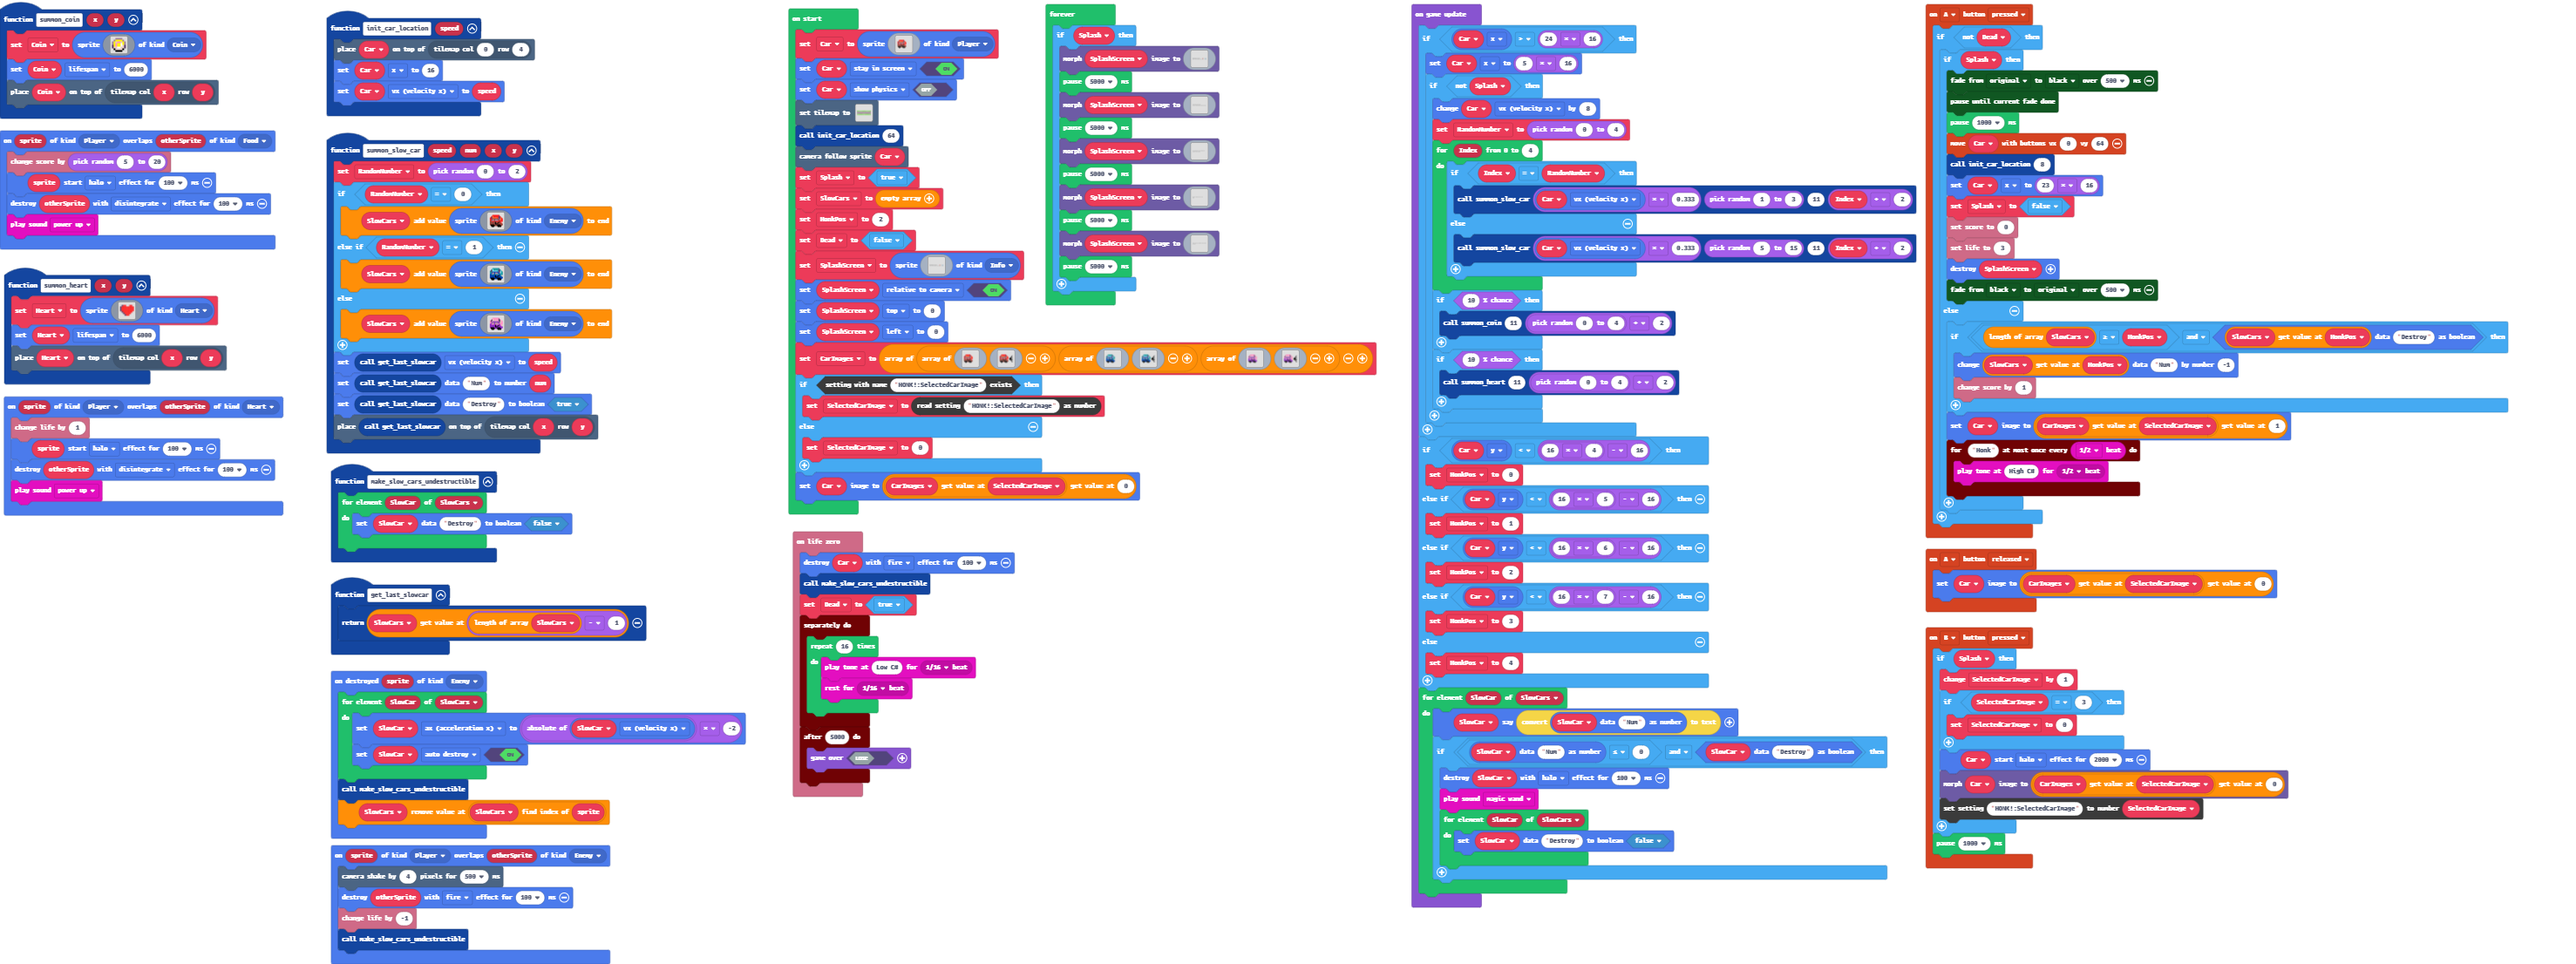
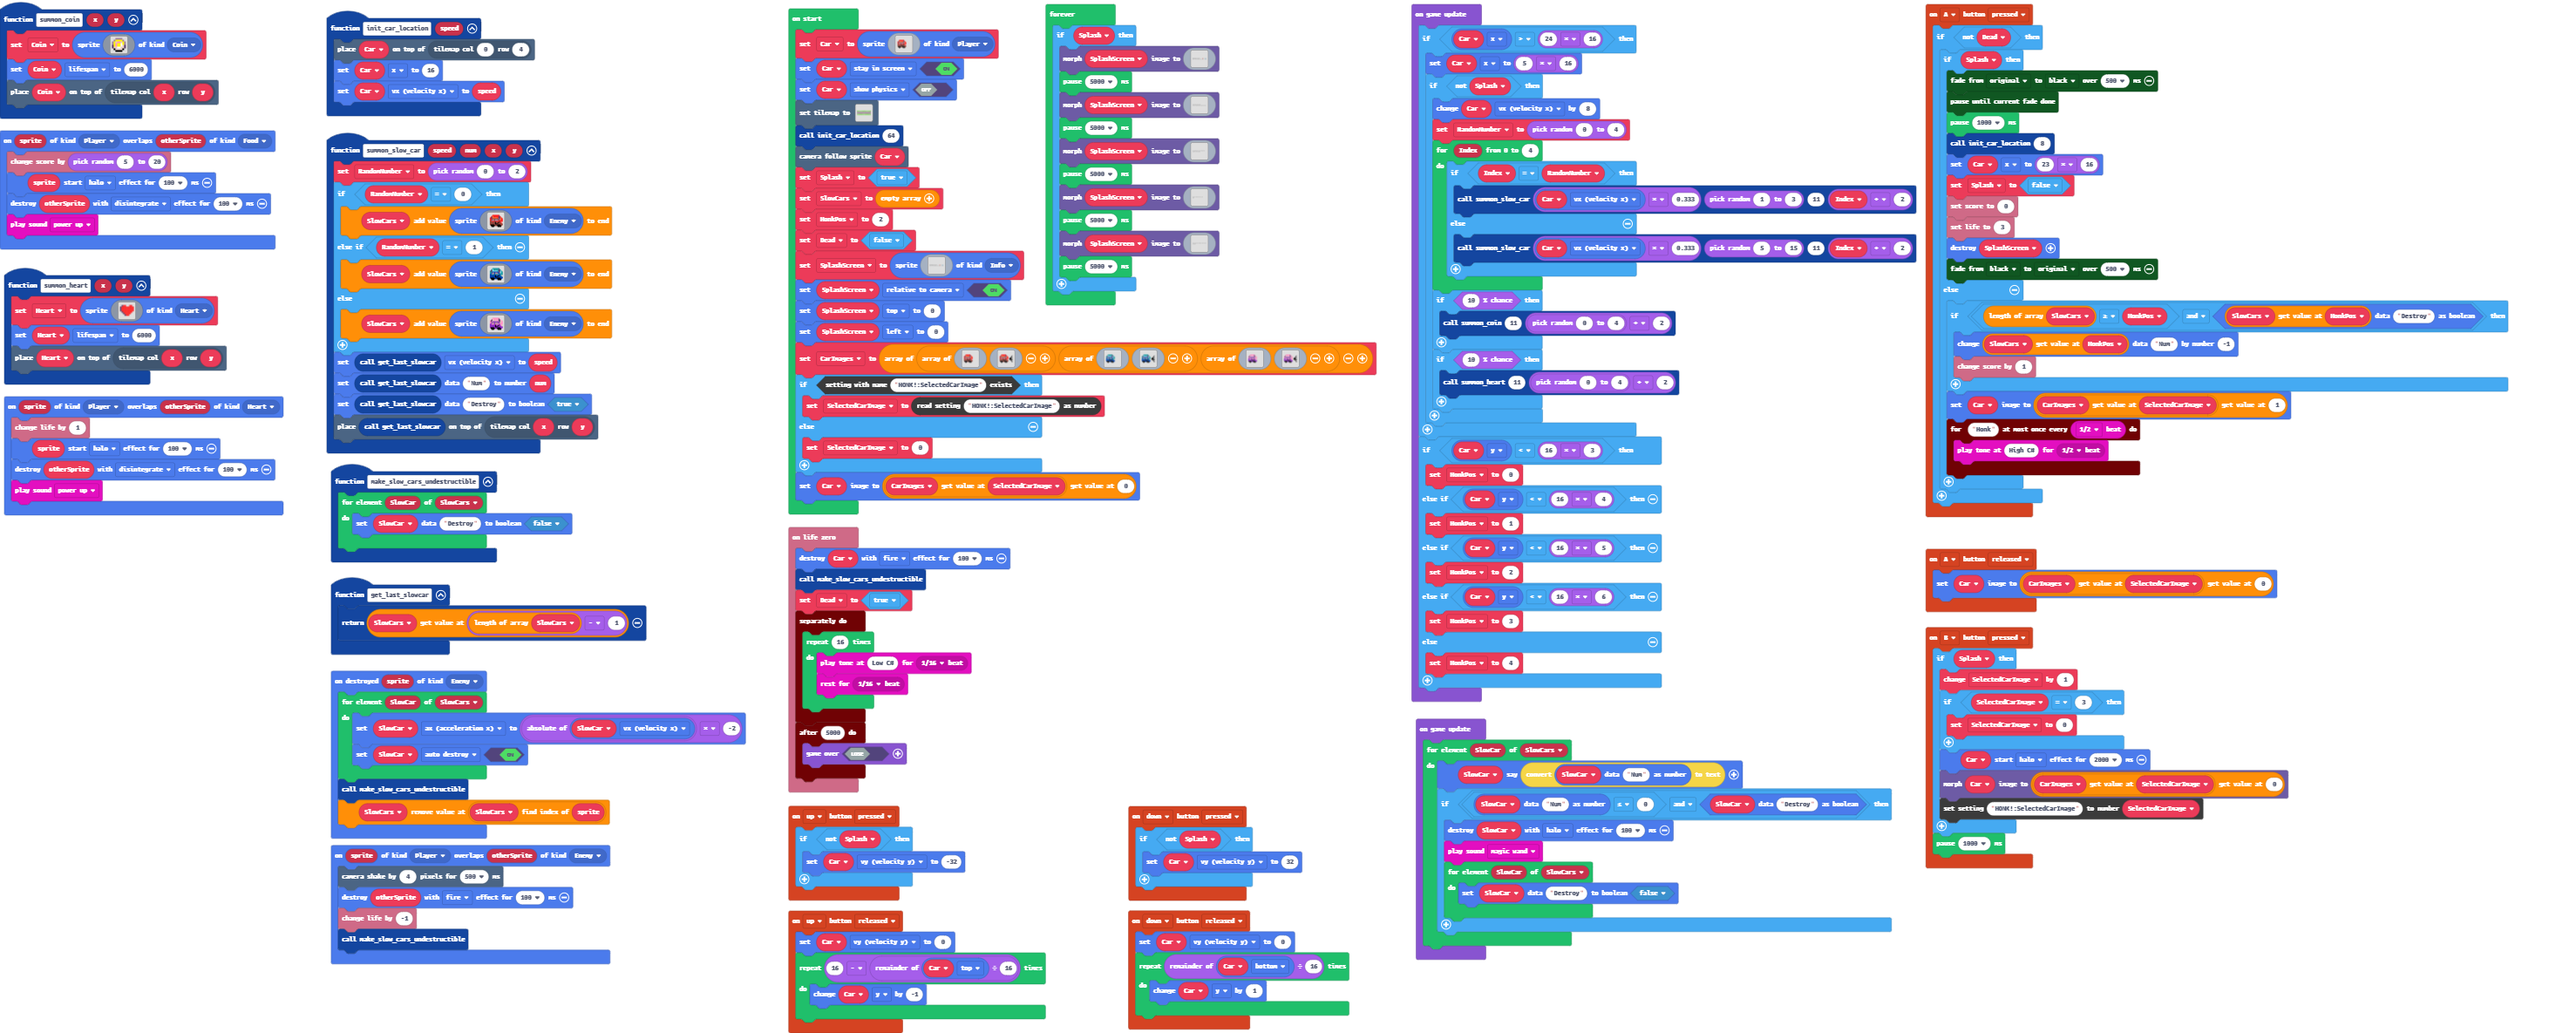
Smooth lane changing (#2)
* Switching lanes is kinda smooth

* Fixed changing lanes up bug

diff --git a/main.ts b/main.ts
@@ -3,6 +3,11 @@ namespace SpriteKind {
     export const Coin = SpriteKind.create()
     export const Heart = SpriteKind.create()
 }
+controller.up.onEvent(ControllerButtonEvent.Pressed, function () {
+    if (!(Splash)) {
+        Car.vy = -32
+    }
+})
 function summon_slow_car (speed: number, num: number, x: number, y: number) {
     RandomNumber = randint(0, 2)
     if (RandomNumber == 0) {
@@ -91,7 +96,6 @@ controller.A.onEvent(ControllerButtonEvent.Pressed, function () {
             color.startFade(color.originalPalette, color.Black, 500)
             color.pauseUntilFadeDone()
             pause(1000)
-            controller.moveSprite(Car, 0, 64)
             init_car_location(8)
             Car.x = 23 * 16
             Splash = false
@@ -109,6 +113,12 @@ controller.A.onEvent(ControllerButtonEvent.Pressed, function () {
                 music.playTone(554, music.beat(BeatFraction.Half))
             })
         }
+    }
+})
+controller.down.onEvent(ControllerButtonEvent.Released, function () {
+    Car.vy = 0
+    for (let index = 0; index < Car.bottom % 16; index++) {
+        Car.y += 1
     }
 })
 sprites.onOverlap(SpriteKind.Player, SpriteKind.Heart, function (sprite, otherSprite) {
@@ -133,9 +143,20 @@ function summon_heart (x: number, y: number) {
 controller.A.onEvent(ControllerButtonEvent.Released, function () {
     Car.setImage(CarImages[SelectedCarImage][0])
 })
+controller.up.onEvent(ControllerButtonEvent.Released, function () {
+    Car.vy = 0
+    for (let index = 0; index < 16 - Car.top % 16; index++) {
+        Car.y += -1
+    }
+})
 function get_last_slowcar () {
     return SlowCars[SlowCars.length - 1]
 }
+controller.down.onEvent(ControllerButtonEvent.Pressed, function () {
+    if (!(Splash)) {
+        Car.vy = 32
+    }
+})
 info.onLifeZero(function () {
     Car.destroy(effects.fire, 100)
     make_slow_cars_undestructible()
@@ -388,17 +409,19 @@ game.onUpdate(function () {
             }
         }
     }
-    if (Car.y < 16 * 4 - 16) {
+    if (Car.y < 16 * 3) {
         HonkPos = 0
-    } else if (Car.y < 16 * 5 - 16) {
+    } else if (Car.y < 16 * 4) {
         HonkPos = 1
-    } else if (Car.y < 16 * 6 - 16) {
+    } else if (Car.y < 16 * 5) {
         HonkPos = 2
-    } else if (Car.y < 16 * 7 - 16) {
+    } else if (Car.y < 16 * 6) {
         HonkPos = 3
     } else {
         HonkPos = 4
     }
+})
+game.onUpdate(function () {
     for (let SlowCar of SlowCars) {
         SlowCar.say(convertToText(sprites.readDataNumber(SlowCar, "Num")))
         if (sprites.readDataNumber(SlowCar, "Num") <= 0 && sprites.readDataBoolean(SlowCar, "Destroy")) {
